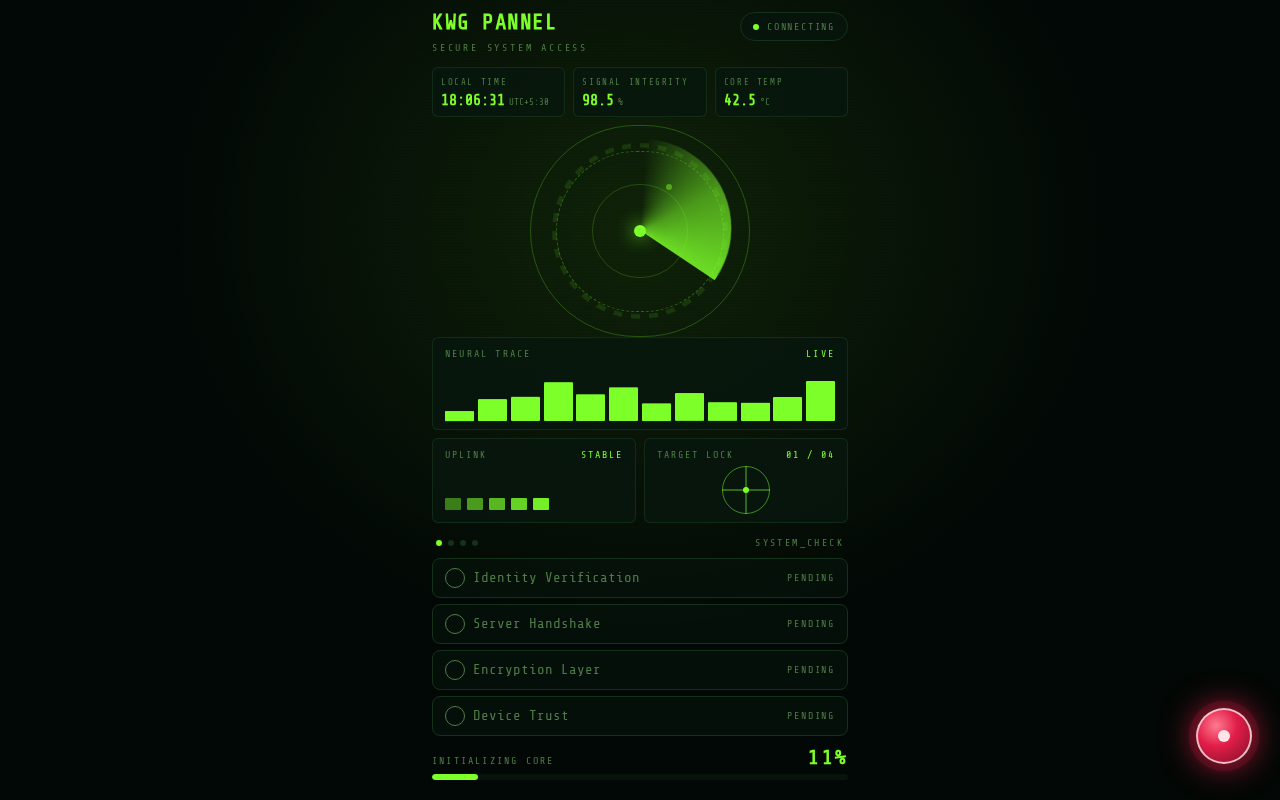
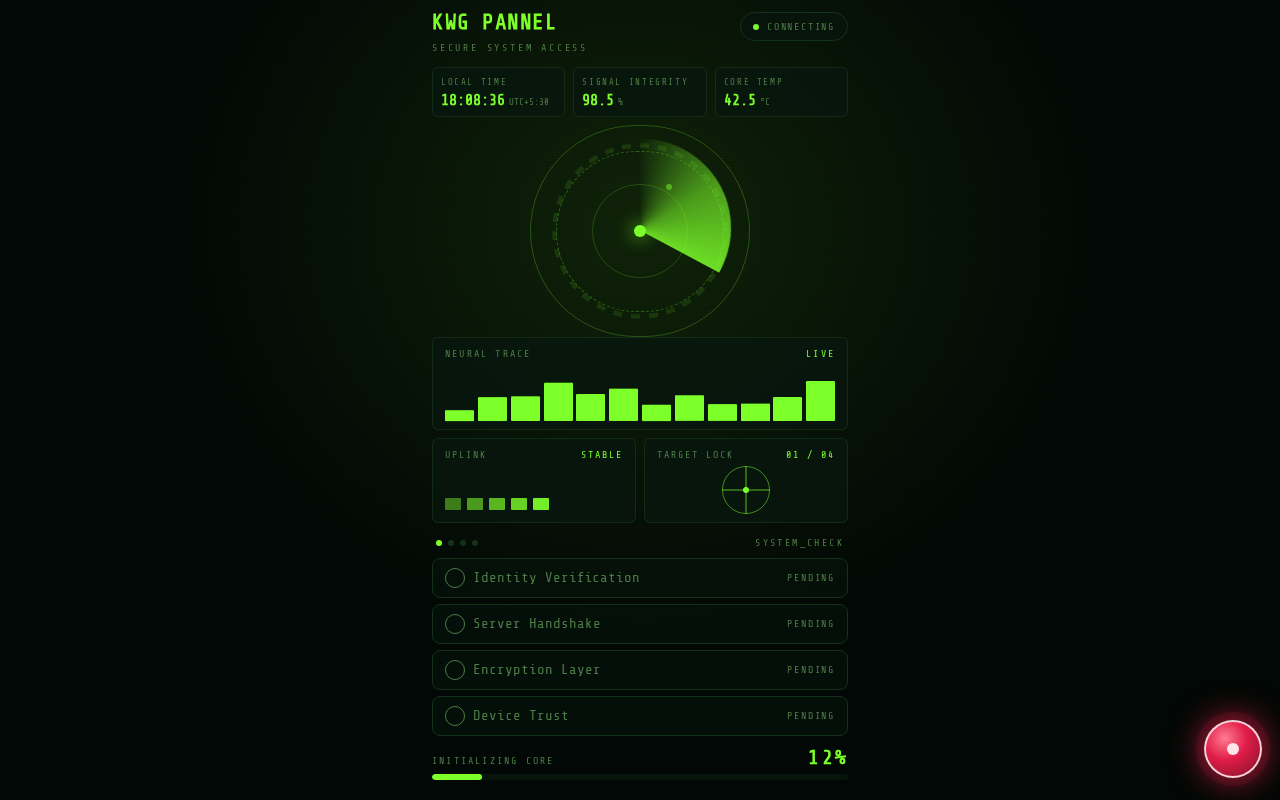
Export from Grok

Changed region(s): [[0.9062, 0.8438, 1.0, 1.0], [0.5312, 0.3125, 0.5625, 0.3438]]

diff --git a/src/components/red-orb.tsx b/src/components/red-orb.tsx
@@ -1,37 +1,26 @@
-import { useCallback, useEffect, useRef, useState, type PointerEvent } from "react";
+import { useCallback, useRef, useState, type PointerEvent } from "react";
 
-const SIZE = 56;
+const SIZE = 58;
 
 export function RedOrb({ onOpen }: { onOpen: () => void }) {
-  const [pos, setPos] = useState({ x: 0, y: 0 });
+  const [pos, setPos] = useState<{ x: number; y: number } | null>(null);
   const dragging = useRef(false);
   const moved = useRef(false);
   const origin = useRef({ x: 0, y: 0, px: 0, py: 0 });
 
-  useEffect(() => {
-    const place = () => {
-      setPos({
-        x: Math.max(12, window.innerWidth - SIZE - 28),
-        y: Math.max(12, window.innerHeight - SIZE - 36),
-      });
-    };
-    place();
-    window.addEventListener("resize", place);
-    return () => window.removeEventListener("resize", place);
-  }, []);
-
   const onPointerDown = useCallback((e: PointerEvent<HTMLButtonElement>) => {
     dragging.current = true;
     moved.current = false;
-    origin.current = { x: pos.x, y: pos.y, px: e.clientX, py: e.clientY };
+    const rect = e.currentTarget.getBoundingClientRect();
+    origin.current = { x: rect.left, y: rect.top, px: e.clientX, py: e.clientY };
     e.currentTarget.setPointerCapture(e.pointerId);
-  }, [pos.x, pos.y]);
+  }, []);
 
   const onPointerMove = useCallback((e: PointerEvent<HTMLButtonElement>) => {
     if (!dragging.current) return;
     const dx = e.clientX - origin.current.px;
     const dy = e.clientY - origin.current.py;
-    if (Math.abs(dx) + Math.abs(dy) > 6) moved.current = true;
+    if (Math.abs(dx) + Math.abs(dy) > 4) moved.current = true;
     const x = Math.min(window.innerWidth - SIZE - 8, Math.max(8, origin.current.x + dx));
     const y = Math.min(window.innerHeight - SIZE - 8, Math.max(8, origin.current.y + dy));
     setPos({ x, y });
@@ -45,11 +34,12 @@ export function RedOrb({ onOpen }: { onOpen: () => void }) {
   return (
     <button
       type="button"
-      aria-label="Open KWG panel"
-      className="orb-glow fixed z-40 size-14 rounded-full border-2 border-danger-fg/80 bg-danger transition-transform duration-150 ease-out active:scale-95"
+      aria-label="KWG PANNEL"
+      className="orb-glow pointer-events-auto fixed z-[80] size-[58px] rounded-full border-2 border-danger-fg/90 transition-transform duration-150 ease-out active:scale-95"
       style={{
-        left: pos.x,
-        top: pos.y,
+        ...(pos
+          ? { left: pos.x, top: pos.y }
+          : { right: 18, bottom: 22 }),
         animation: "orb-glow 1.6s ease-in-out infinite",
         background:
           "radial-gradient(circle at 35% 30%, #ff7a90 0%, var(--color-danger) 42%, #7f1028 100%)",
@@ -59,7 +49,7 @@ export function RedOrb({ onOpen }: { onOpen: () => void }) {
       onPointerUp={onPointerUp}
       onPointerCancel={onPointerUp}
     >
-      <span className="absolute left-1/2 top-1/2 size-3 -translate-x-1/2 -translate-y-1/2 rounded-full bg-danger-fg" />
+      <span className="pointer-events-none absolute left-1/2 top-1/2 size-3 -translate-x-1/2 -translate-y-1/2 rounded-full bg-danger-fg" />
     </button>
   );
 }

diff --git a/src/components/auth-sheet.tsx b/src/components/auth-sheet.tsx
@@ -42,7 +42,7 @@ export function AuthSheet({ onHide }: { onHide: () => void }) {
 
   return (
     <div
-      className="fixed z-50 w-[min(22rem,calc(100vw-1.5rem))] overflow-hidden rounded-2xl border border-danger/70 bg-bg shadow-[0_20px_60px_rgb(0_0_0/0.65)]"
+      className="fixed z-[90] w-[min(22rem,calc(100vw-1.5rem))] overflow-hidden rounded-2xl border border-danger/70 bg-bg shadow-[0_20px_60px_rgb(0_0_0/0.65)]"
       style={{ left: pos.x, top: pos.y }}
     >
       <div
@@ -66,7 +66,7 @@ export function AuthSheet({ onHide }: { onHide: () => void }) {
           <Crosshair className="size-4 text-danger" />
           <div>
             <p className="text-xs font-bold tracking-[0.18em] text-fg">KWG PANNEL</p>
-            <p className="text-[9px] tracking-[0.16em] text-danger">LIVE GATE</p>
+            <p className="text-[9px] tracking-[0.16em] text-danger">KWG PANNEL</p>
           </div>
         </div>
         <span className="text-[9px] tracking-[0.2em] text-muted">LAB MODE</span>
@@ -82,7 +82,7 @@ export function AuthSheet({ onHide }: { onHide: () => void }) {
                 REQUIRED
               </p>
               <p className="mt-2 text-[10px] tracking-[0.2em] text-muted">
-                INITIATE LOGIN TO OPEN KWG
+                KWG PANNEL
               </p>
             </div>
             <div className="grid grid-cols-2 gap-2">

diff --git a/src/components/boot-hud.tsx b/src/components/boot-hud.tsx
@@ -87,7 +87,7 @@ export function BootHud() {
               KWG PANNEL
             </h1>
             <p className="mt-1.5 text-[10px] tracking-[0.28em] text-muted">
-              SECURE SYSTEM ACCESS
+              KWG PANNEL
             </p>
           </div>
           <div className="flex items-center gap-2 rounded-full border border-border bg-surface px-3 py-1.5 text-[10px] tracking-[0.18em] text-muted">
